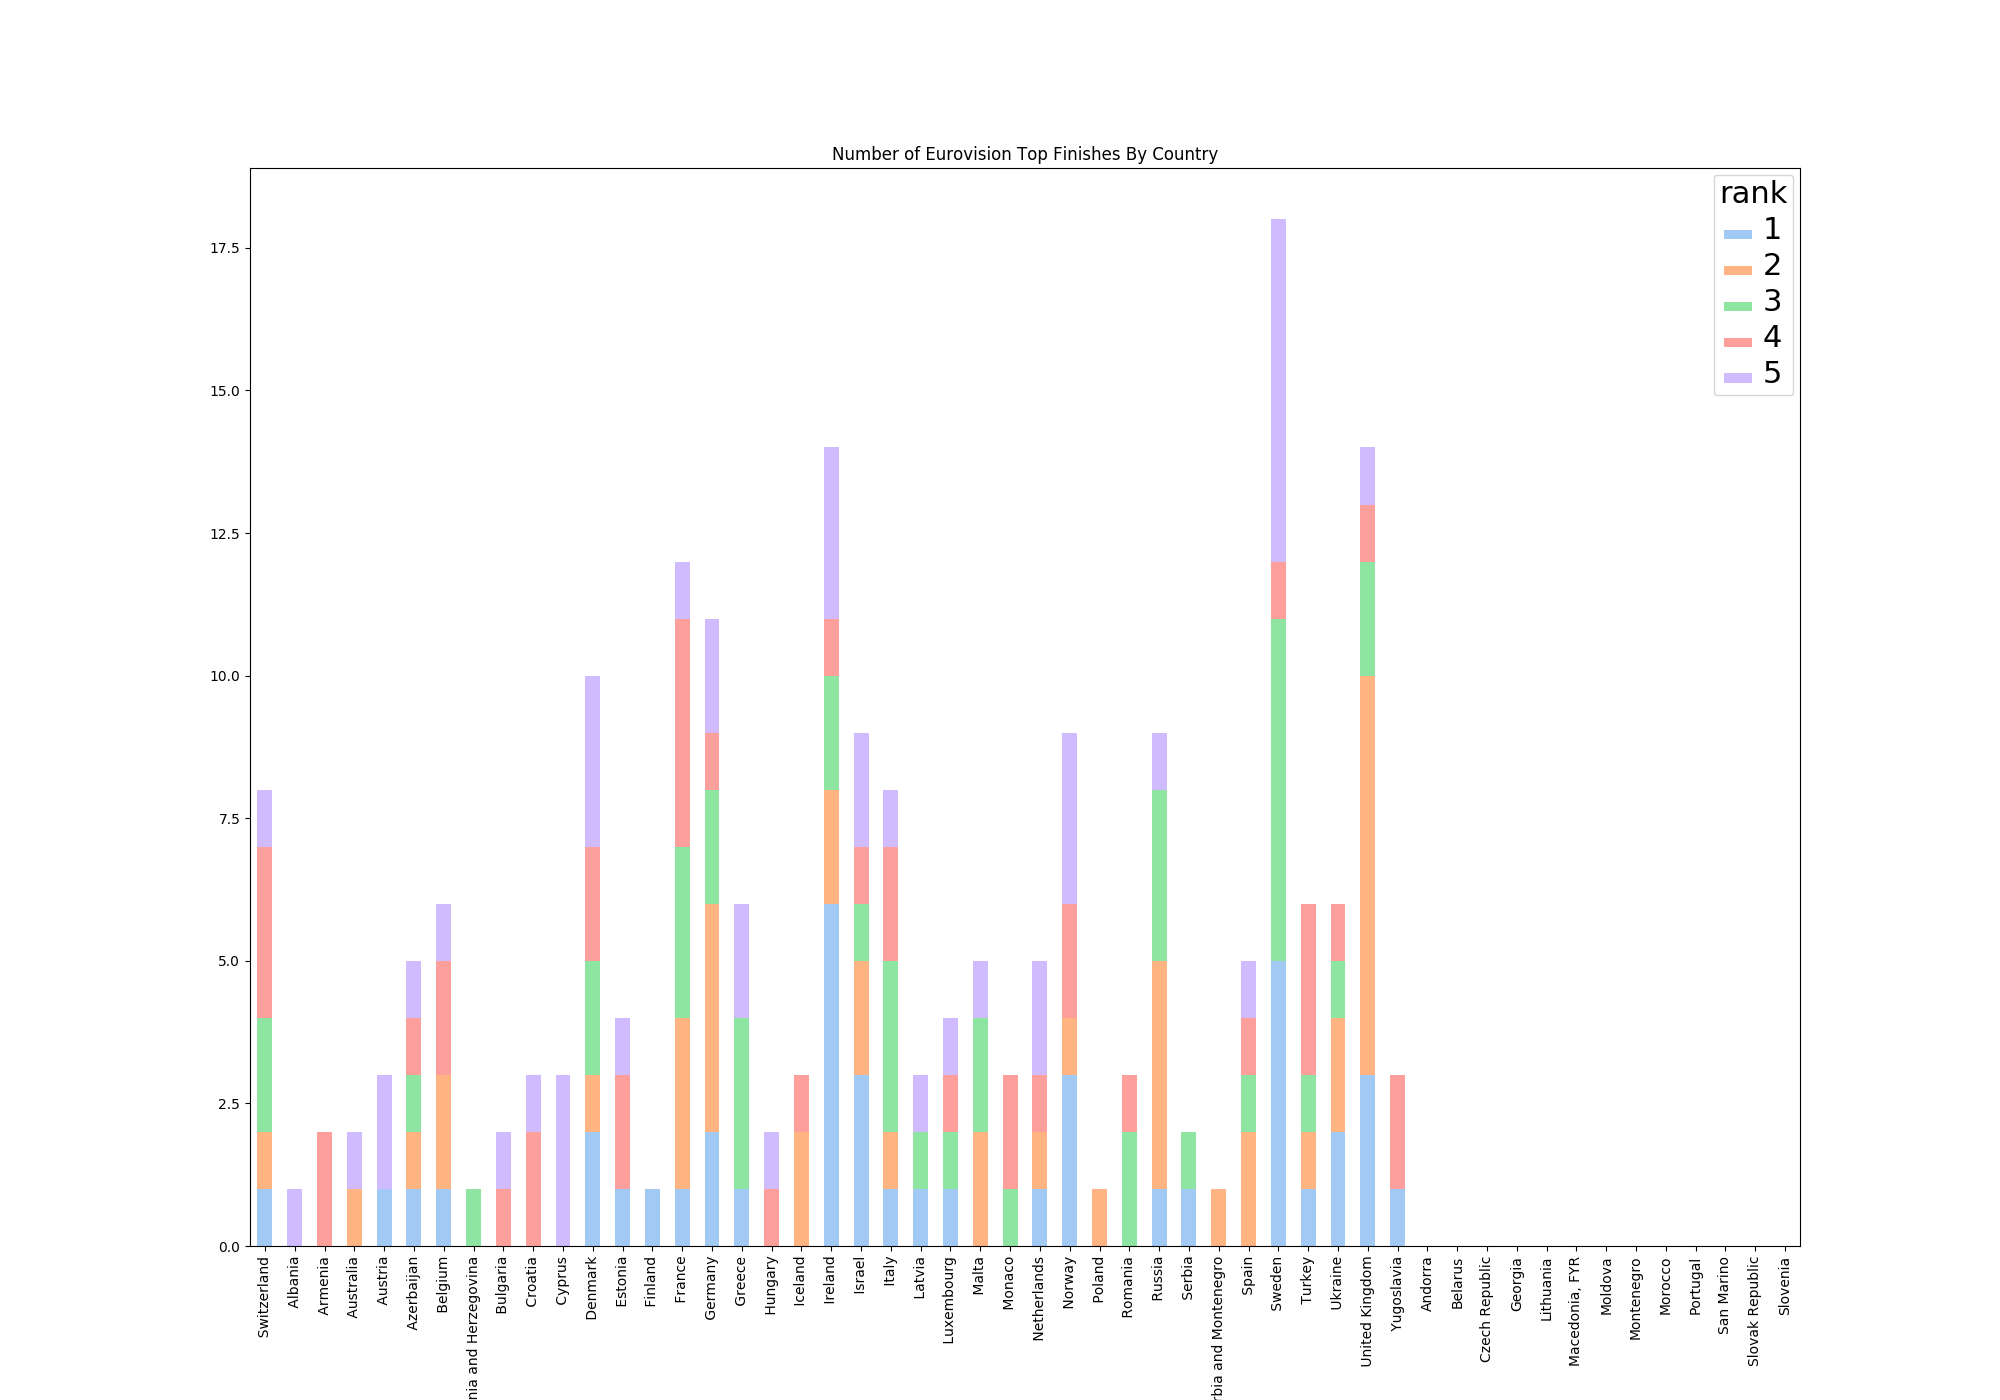
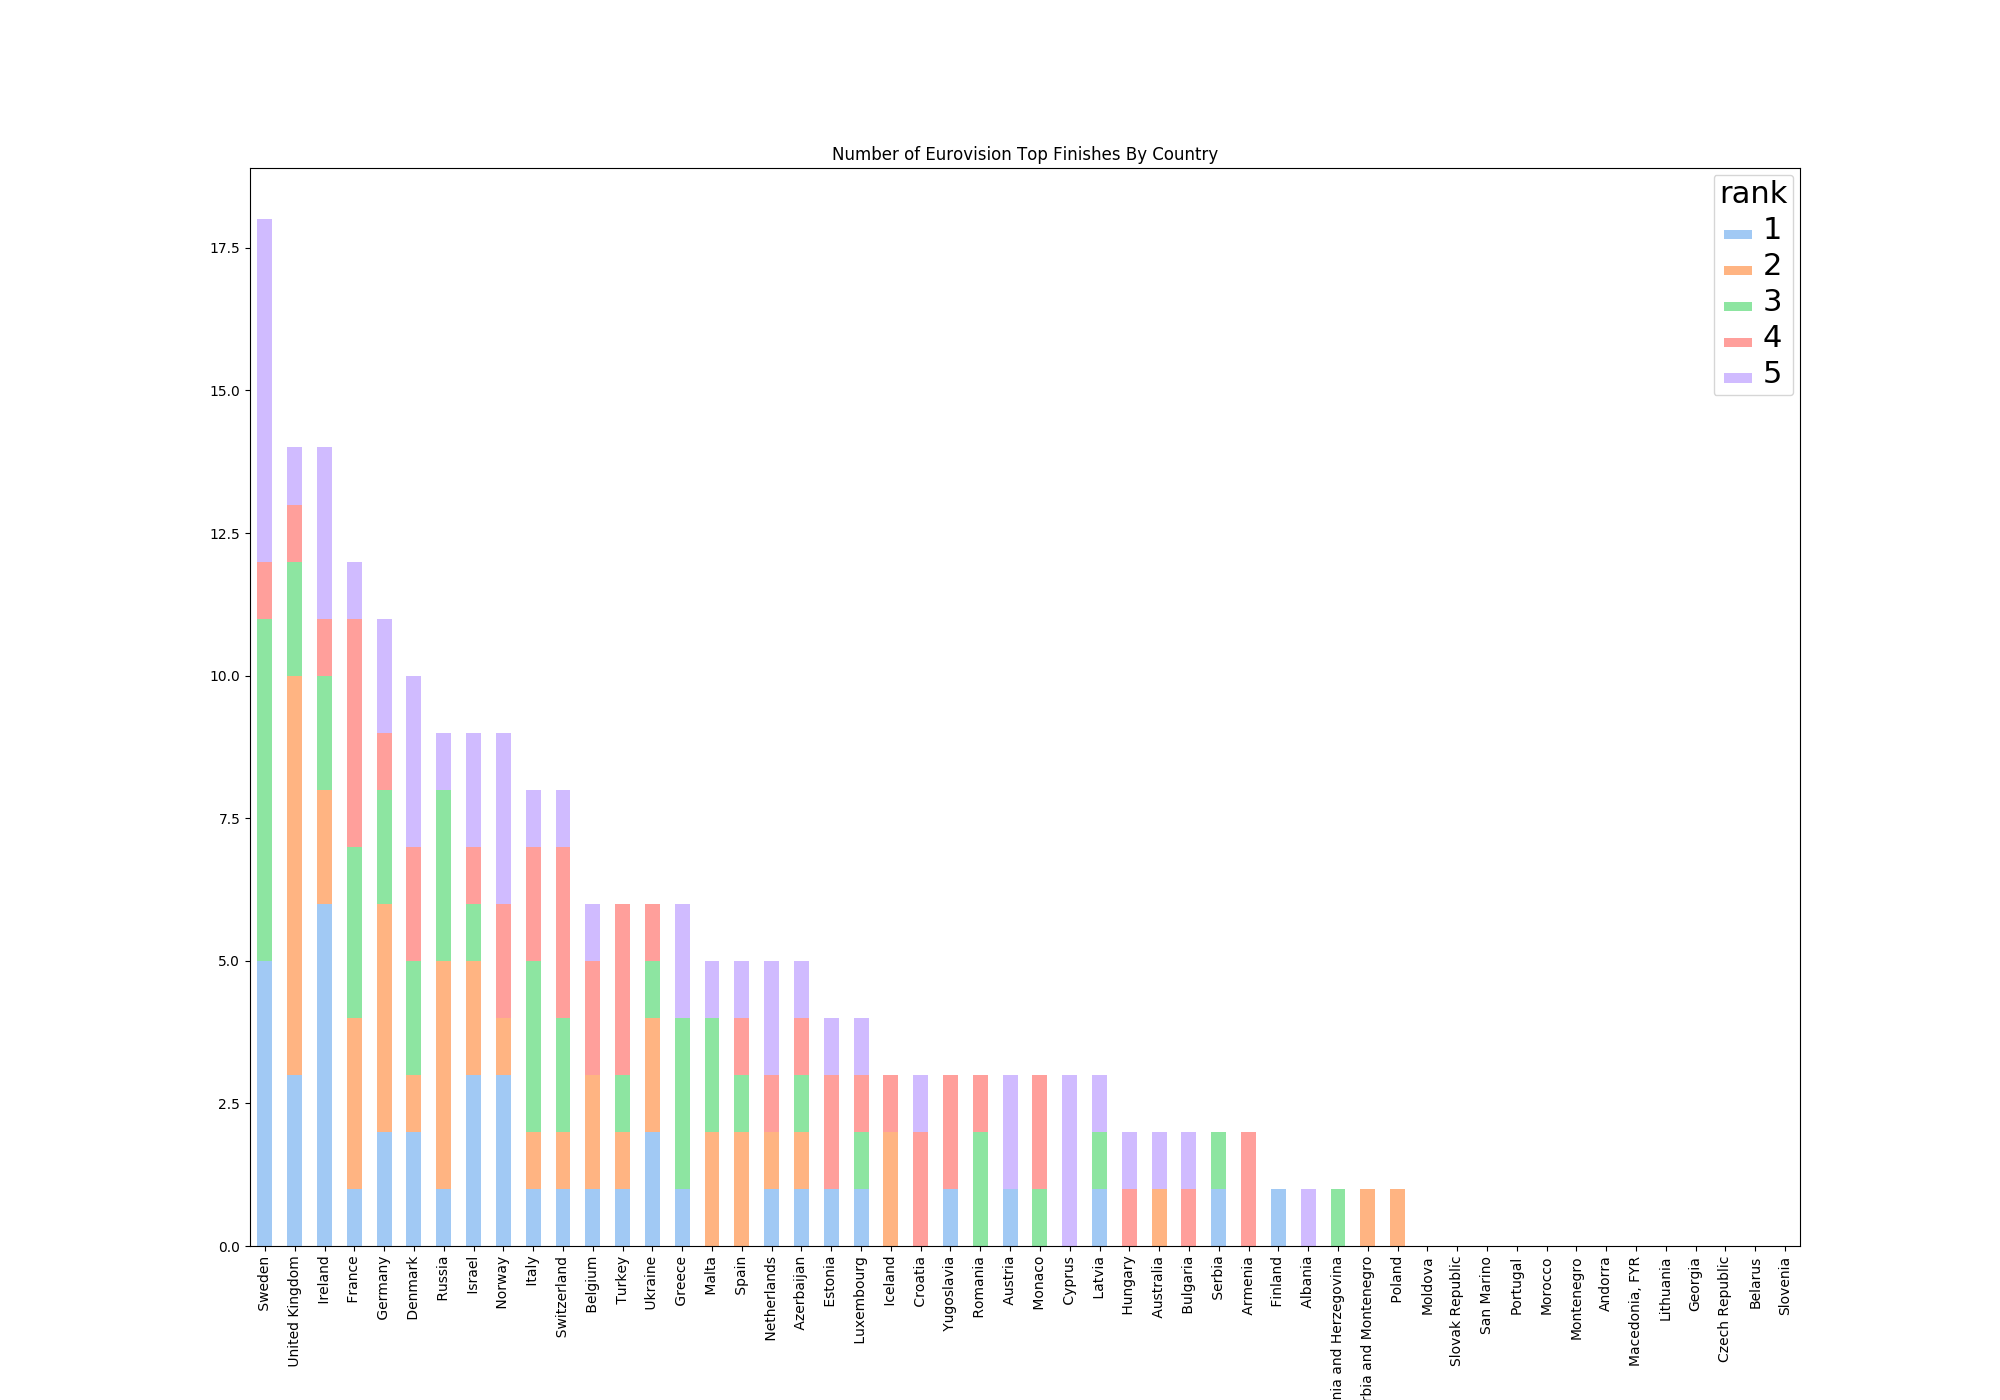
removed filled in values from key.png

Changed region(s): [[0.124, 0.1536, 0.899, 0.9521]]

diff --git a/vizualization_2.py b/vizualization_2.py
@@ -1,6 +1,8 @@
 #!/usr/bin/env python
 # coding: utf-8
 
+# ### Plotting Top Finishes Per Country
+
 # In[51]:
 
 
@@ -24,7 +26,7 @@ merged_euro = pd.read_csv(os.path.join('data',r'cleaned_wikipedia_songs.csv'))
 #merged_euro = merged_euro[merged_euro["rank"].isin([1,2,3])] // if we want top 3 finishes only
 
 
-# In[126]:
+# In[171]:
 
 
 df_plot = merged_euro.groupby(['rank', 'country']).size().reset_index().pivot(columns='rank', index='country', values=0)
@@ -39,11 +41,11 @@ for o in other_countries:
 
 # ordering by descending total (and then deleting the total column so that it won't be rendered in the graph)
 df_plot['total'] = df_plot.fillna(0)[1] + df_plot.fillna(0)[2] + df_plot.fillna(0)[3] + df_plot.fillna(0)[4] + df_plot.fillna(0)[5]
-#df_plot = df_plot.sort_values(by=['total'],ascending=False)
+df_plot = df_plot.sort_values(by=['total'],ascending=False)
 del df_plot['total']
 
 
-# In[127]:
+# In[172]:
 
 
 chart = df_plot.plot(kind='bar', stacked=True)
@@ -53,14 +55,49 @@ plt.setp(chart.get_legend().get_title(), fontsize='22') # for legend title
 chart.set_title('Number of Eurovision Top Finishes By Country')
 
 
-# In[118]:
-
-
-#todo: clickable?, double check if we want top 3 or top 5
-
-
-# In[128]:
+# In[174]:
 
 
 plt.savefig('winspercountry.png')
+
+
+# ### Plotting Keys of Top Finishing Songs
+
+# In[189]:
+
+
+keys_df = pd.read_csv(os.path.join('data',r'merged_euro.csv'))
+keys_df = keys_df.head(122)  # getting the non-null in values
+
+
+# In[190]:
+
+
+# converting the numerical keys into a human-readable format
+mapped_keys = keys_df["key"].map({float(0): 'C', float(1): 'C#', float(2): 'D', float(3): 'D#', float(4): 'E', float(5): 'F', float(6): 'F#', float(7): 'G', float(8): 'G#', float(9): 'A', float(10): 'A#', float(11): 'B'})
+keys_df["mapped_keys"] = mapped_keys
+
+
+# In[191]:
+
+
+plt.clf()
+keys_plot = keys_df.groupby(['rank', 'mapped_keys']).size().reset_index().pivot(columns='rank', index='mapped_keys', values=0)
+chart = keys_plot.plot(kind='bar', stacked=True)
+plt.gcf().set_size_inches(20,14)
+plt.setp(chart.get_legend().get_texts(), fontsize='22') # for legend text
+plt.setp(chart.get_legend().get_title(), fontsize='22') # for legend title
+chart.set_title('Number of Eurovision Top Finishing Songs By Key')
+
+
+# In[192]:
+
+
+plt.savefig('keys.png')
+
+
+# In[ ]:
+
+
+
 
